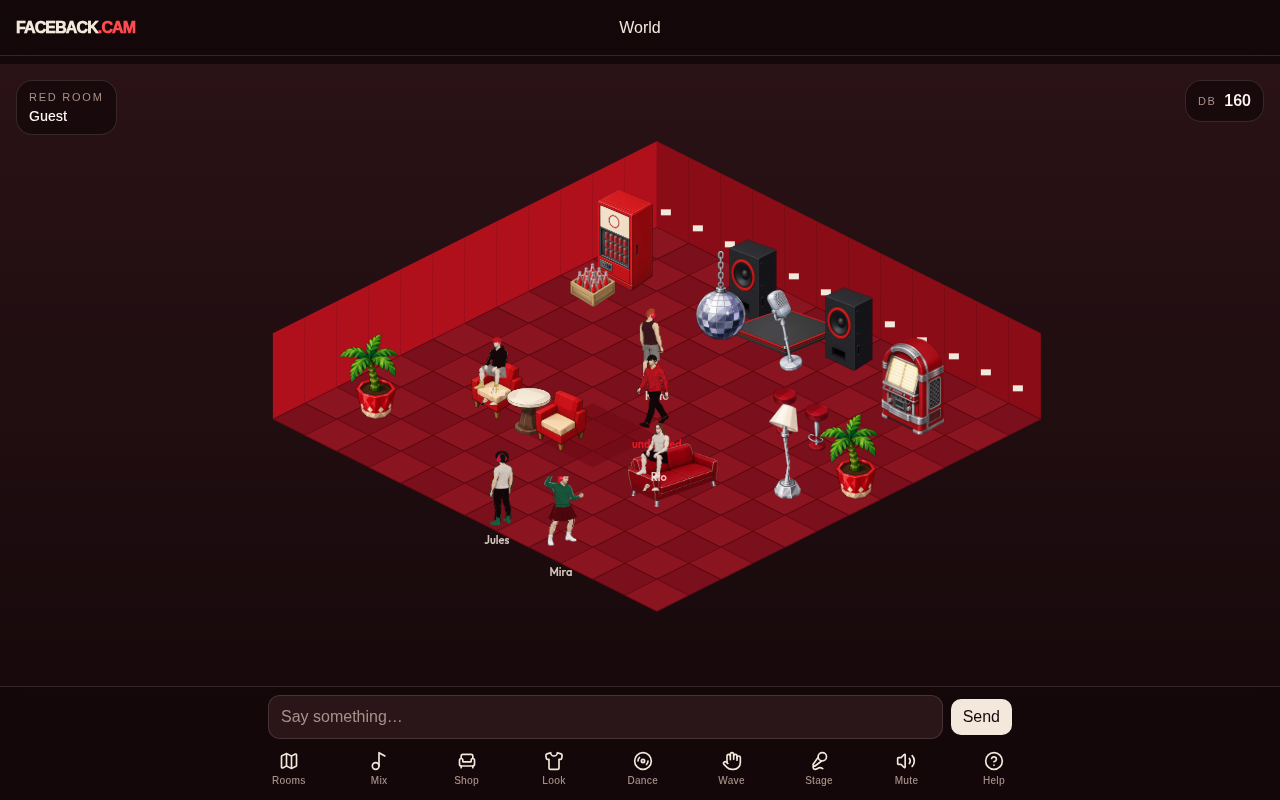
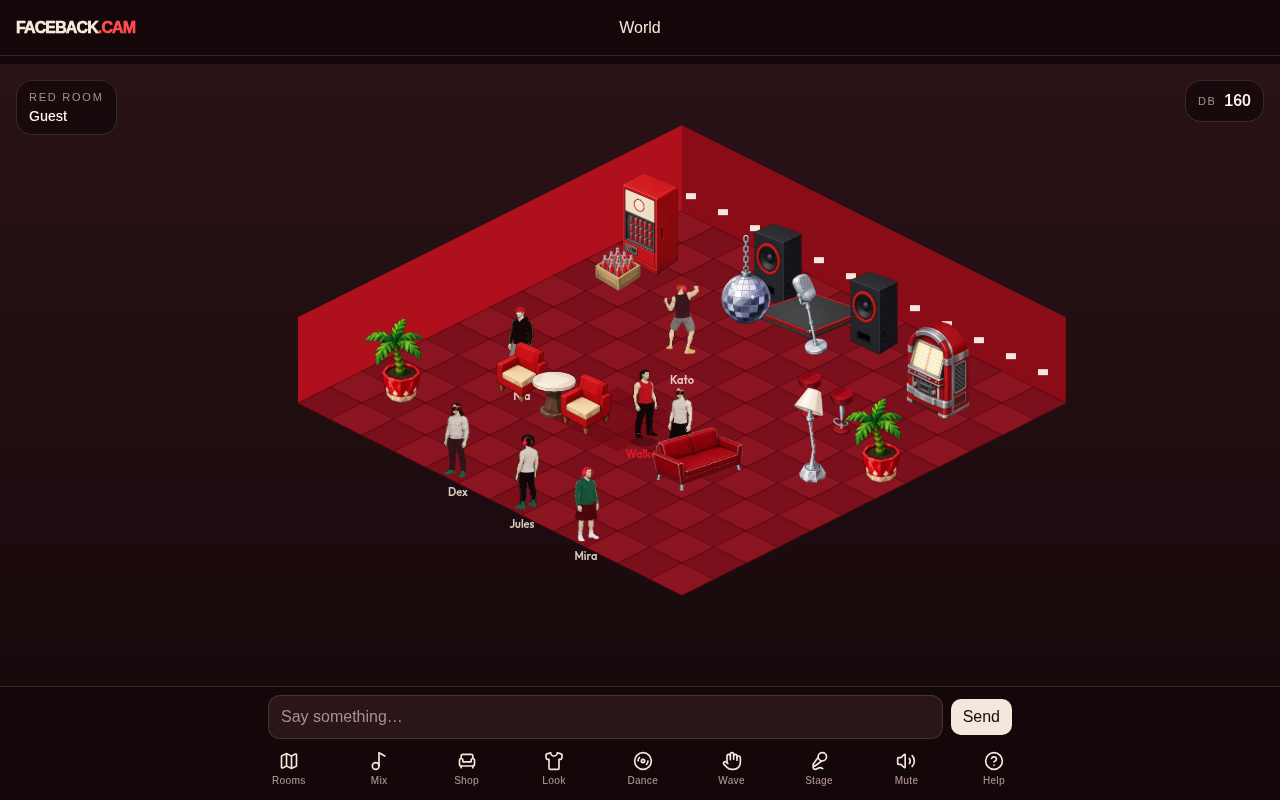
Polish walk into 4-beat plant/push/mid/recover cycle (#14)
Walk/idle sheets remain 4-dir × 1 pose (no extra frames in art).
Drive a clearer plant → push → mid → recover cycle off walkPhase,
swap idle↔walk on an asymmetric duty curve, and sell the gaps with
facing lean, bob/squash, and a soft plant contact shadow.

diff --git a/coke-music/src/lib/game/draw.ts b/coke-music/src/lib/game/draw.ts
@@ -110,10 +110,71 @@ function actionSheet(set: AvatarSheets, action: Actor["action"]) {
   return action === "sit" ? set.sit : action === "walk" ? set.walk : action === "dance" || action === "wave" ? set.dance : set.idle;
 }
 
-/** Two-pose stride without a full walk-cycle rewrite: planted idle ↔ mid-stride walk. */
+/**
+ * Walk sheets are 4-dir × 1 pose (idle = planted, walk = mid-stride). There are no
+ * extra in-between frames in the art — fake frames would lie. Instead we drive a
+ * clearer 4-beat cycle off walkPhase: plant → push → mid → recover, swapping the
+ * two sheets on an asymmetric duty curve and selling the gaps with lean/bob/squash.
+ */
+export type StrideBeat = "plant" | "push" | "mid" | "recover";
+
+/** Fold continuous walkPhase into one step cycle in [0, 1). */
+export function strideCycle(phase: number): number {
+  const u = (phase / (Math.PI * 2)) % 1;
+  return u < 0 ? u + 1 : u;
+}
+
+/** Asymmetric beats: short plant, weight push, held mid-stride, recover into plant. */
+export function strideBeat(phase: number): StrideBeat {
+  const u = strideCycle(phase);
+  if (u < 0.16) return "plant";
+  if (u < 0.34) return "push";
+  if (u < 0.68) return "mid";
+  return "recover";
+}
+
 function strideAction(action: Actor["action"], phase: number): Actor["action"] {
   if (action !== "walk") return action;
-  return Math.sin(phase) > 0.2 ? "walk" : "idle";
+  const beat = strideBeat(phase);
+  // Idle sheet = feet planted; walk sheet = legs apart. Push stays on idle so the
+  // weight-shift reads before the mid-stride flash; recover keeps the stride sheet.
+  return beat === "plant" || beat === "push" ? "idle" : "walk";
+}
+
+/** Screen-space lean toward facing (isometric +x down-right, +y down-left). */
+function facingLeanX(dir: number, beat: StrideBeat): number {
+  const amp = beat === "push" || beat === "mid" ? 2.6 : beat === "recover" ? 1.3 : 0.5;
+  const sx = dir === 0 ? 1 : dir === 2 ? -1 : dir === 1 ? -0.65 : 0.65;
+  return sx * amp;
+}
+
+function walkMotion(phase: number, dir: number) {
+  const beat = strideBeat(phase);
+  const u = strideCycle(phase);
+  // Ease inside each beat so plant doesn't pop and mid holds longer visually.
+  const bob =
+    beat === "plant"
+      ? 0.4
+      : beat === "push"
+        ? 1.2 + (u - 0.16) / 0.18 * 2.4
+        : beat === "mid"
+          ? 4.0 + Math.sin(((u - 0.34) / 0.34) * Math.PI) * 1.1
+          : 2.2 * (1 - (u - 0.68) / 0.32);
+  const sway =
+    beat === "plant"
+      ? Math.sin(phase) * 0.012
+      : beat === "push"
+        ? 0.04 + (u - 0.16) / 0.18 * 0.03
+        : beat === "mid"
+          ? Math.sin(phase) * 0.07
+          : Math.sin(phase) * 0.035;
+  const stretchX =
+    beat === "plant" ? 1.04 : beat === "push" ? 0.97 : beat === "mid" ? 1.02 : 0.99;
+  const stretchY =
+    beat === "plant" ? 0.96 : beat === "push" ? 1.05 : beat === "mid" ? 1.01 : 0.98;
+  const plantShadow =
+    beat === "plant" ? 0.32 : beat === "recover" ? 0.14 : beat === "push" ? 0.08 : 0;
+  return { beat, bob, sway, stretchX, stretchY, leanX: facingLeanX(dir, beat), plantShadow };
 }
 
 function remapCanvas(c: HTMLCanvasElement, a: Appearance): HTMLCanvasElement {
@@ -663,20 +724,36 @@ export function drawAppearance(
     const frame = composeAvatar(a, dir, action, phase);
     if (frame) {
       const walk = action === "walk";
-      const bob = action === "dance" ? Math.abs(Math.sin(t * 10)) * 3 : walk ? Math.abs(Math.sin(phase)) * 4.2 : 0;
-      const sway = walk ? Math.sin(phase) * 0.055 : action === "dance" ? Math.sin(t * 8) * 0.07 : Math.sin(t * 1.8) * 0.012;
-      const stretch = walk ? 1 + Math.sin(phase * 2) * 0.03 : 1;
+      const motion = walk ? walkMotion(phase, dir) : null;
+      const bob = action === "dance" ? Math.abs(Math.sin(t * 10)) * 3 : motion ? motion.bob : 0;
+      const sway = motion
+        ? motion.sway
+        : action === "dance"
+          ? Math.sin(t * 8) * 0.07
+          : Math.sin(t * 1.8) * 0.012;
+      const stretchX = motion ? motion.stretchX : walk ? 1 + Math.sin(phase * 2) * 0.03 : 1;
+      const stretchY = motion ? motion.stretchY : 1;
       const breathe = action === "idle" ? 1 + Math.sin(t * 2.2) * 0.012 : 1;
+      const leanX = motion ? motion.leanX : 0;
       const sitting = action === "sit";
       const h = sitting ? 62 : 78;
       const w = (frame.width / frame.height) * h;
       // Sitting: smaller foot push + clip toes so they nestle on the cushion
       // instead of peeking under the sofa lip (Habbo-like hang is OK; under-peek is not).
       const foot = sitting ? 0 : 10;
+      // Soft contact shadow sells the plant beat without inventing foot frames.
+      if (motion && motion.plantShadow > 0) {
+        ctx.save();
+        ctx.fillStyle = `rgba(20, 8, 10, ${motion.plantShadow})`;
+        ctx.beginPath();
+        ctx.ellipse(ox + leanX * 0.35, oy + foot + 3, 13, 4.5, 0, 0, Math.PI * 2);
+        ctx.fill();
+        ctx.restore();
+      }
       ctx.save();
-      ctx.translate(ox, oy + foot - sitLift - bob);
+      ctx.translate(ox + leanX, oy + foot - sitLift - bob);
       ctx.rotate(sway);
-      ctx.scale(stretch, breathe / stretch);
+      ctx.scale(stretchX, (breathe * stretchY) / stretchX);
       if (sitting) {
         const hide = Math.round(h * 0.32);
         ctx.beginPath();

diff --git a/lib/coke-game/draw.ts b/lib/coke-game/draw.ts
@@ -111,10 +111,71 @@ function actionSheet(set: AvatarSheets, action: Actor["action"]) {
   return action === "sit" ? set.sit : action === "walk" ? set.walk : action === "dance" || action === "wave" ? set.dance : set.idle;
 }
 
-/** Two-pose stride without a full walk-cycle rewrite: planted idle ↔ mid-stride walk. */
+/**
+ * Walk sheets are 4-dir × 1 pose (idle = planted, walk = mid-stride). There are no
+ * extra in-between frames in the art — fake frames would lie. Instead we drive a
+ * clearer 4-beat cycle off walkPhase: plant → push → mid → recover, swapping the
+ * two sheets on an asymmetric duty curve and selling the gaps with lean/bob/squash.
+ */
+export type StrideBeat = "plant" | "push" | "mid" | "recover";
+
+/** Fold continuous walkPhase into one step cycle in [0, 1). */
+export function strideCycle(phase: number): number {
+  const u = (phase / (Math.PI * 2)) % 1;
+  return u < 0 ? u + 1 : u;
+}
+
+/** Asymmetric beats: short plant, weight push, held mid-stride, recover into plant. */
+export function strideBeat(phase: number): StrideBeat {
+  const u = strideCycle(phase);
+  if (u < 0.16) return "plant";
+  if (u < 0.34) return "push";
+  if (u < 0.68) return "mid";
+  return "recover";
+}
+
 function strideAction(action: Actor["action"], phase: number): Actor["action"] {
   if (action !== "walk") return action;
-  return Math.sin(phase) > 0.2 ? "walk" : "idle";
+  const beat = strideBeat(phase);
+  // Idle sheet = feet planted; walk sheet = legs apart. Push stays on idle so the
+  // weight-shift reads before the mid-stride flash; recover keeps the stride sheet.
+  return beat === "plant" || beat === "push" ? "idle" : "walk";
+}
+
+/** Screen-space lean toward facing (isometric +x down-right, +y down-left). */
+function facingLeanX(dir: number, beat: StrideBeat): number {
+  const amp = beat === "push" || beat === "mid" ? 2.6 : beat === "recover" ? 1.3 : 0.5;
+  const sx = dir === 0 ? 1 : dir === 2 ? -1 : dir === 1 ? -0.65 : 0.65;
+  return sx * amp;
+}
+
+function walkMotion(phase: number, dir: number) {
+  const beat = strideBeat(phase);
+  const u = strideCycle(phase);
+  // Ease inside each beat so plant doesn't pop and mid holds longer visually.
+  const bob =
+    beat === "plant"
+      ? 0.4
+      : beat === "push"
+        ? 1.2 + (u - 0.16) / 0.18 * 2.4
+        : beat === "mid"
+          ? 4.0 + Math.sin(((u - 0.34) / 0.34) * Math.PI) * 1.1
+          : 2.2 * (1 - (u - 0.68) / 0.32);
+  const sway =
+    beat === "plant"
+      ? Math.sin(phase) * 0.012
+      : beat === "push"
+        ? 0.04 + (u - 0.16) / 0.18 * 0.03
+        : beat === "mid"
+          ? Math.sin(phase) * 0.07
+          : Math.sin(phase) * 0.035;
+  const stretchX =
+    beat === "plant" ? 1.04 : beat === "push" ? 0.97 : beat === "mid" ? 1.02 : 0.99;
+  const stretchY =
+    beat === "plant" ? 0.96 : beat === "push" ? 1.05 : beat === "mid" ? 1.01 : 0.98;
+  const plantShadow =
+    beat === "plant" ? 0.32 : beat === "recover" ? 0.14 : beat === "push" ? 0.08 : 0;
+  return { beat, bob, sway, stretchX, stretchY, leanX: facingLeanX(dir, beat), plantShadow };
 }
 
 function remapCanvas(c: HTMLCanvasElement, a: Appearance): HTMLCanvasElement {
@@ -699,20 +760,36 @@ export function drawAppearance(
     const frame = composeAvatar(a, dir, action, phase);
     if (frame) {
       const walk = action === "walk";
-      const bob = action === "dance" ? Math.abs(Math.sin(t * 10)) * 3 : walk ? Math.abs(Math.sin(phase)) * 4.2 : 0;
-      const sway = walk ? Math.sin(phase) * 0.055 : action === "dance" ? Math.sin(t * 8) * 0.07 : Math.sin(t * 1.8) * 0.012;
-      const stretch = walk ? 1 + Math.sin(phase * 2) * 0.03 : 1;
+      const motion = walk ? walkMotion(phase, dir) : null;
+      const bob = action === "dance" ? Math.abs(Math.sin(t * 10)) * 3 : motion ? motion.bob : 0;
+      const sway = motion
+        ? motion.sway
+        : action === "dance"
+          ? Math.sin(t * 8) * 0.07
+          : Math.sin(t * 1.8) * 0.012;
+      const stretchX = motion ? motion.stretchX : walk ? 1 + Math.sin(phase * 2) * 0.03 : 1;
+      const stretchY = motion ? motion.stretchY : 1;
       const breathe = action === "idle" ? 1 + Math.sin(t * 2.2) * 0.012 : 1;
+      const leanX = motion ? motion.leanX : 0;
       const sitting = action === "sit";
       const h = sitting ? 62 : 78;
       const w = (frame.width / frame.height) * h;
       // Sitting: smaller foot push + clip toes so they nestle on the cushion
       // instead of peeking under the sofa lip (Habbo-like hang is OK; under-peek is not).
       const foot = sitting ? 0 : 10;
+      // Soft contact shadow sells the plant beat without inventing foot frames.
+      if (motion && motion.plantShadow > 0) {
+        ctx.save();
+        ctx.fillStyle = `rgba(20, 8, 10, ${motion.plantShadow})`;
+        ctx.beginPath();
+        ctx.ellipse(ox + leanX * 0.35, oy + foot + 3, 13, 4.5, 0, 0, Math.PI * 2);
+        ctx.fill();
+        ctx.restore();
+      }
       ctx.save();
-      ctx.translate(ox, oy + foot - sitLift - bob);
+      ctx.translate(ox + leanX, oy + foot - sitLift - bob);
       ctx.rotate(sway);
-      ctx.scale(stretch, breathe / stretch);
+      ctx.scale(stretchX, (breathe * stretchY) / stretchX);
       if (sitting) {
         const hide = Math.round(h * 0.32);
         ctx.beginPath();

diff --git a/docs/deploy-faceback.md b/docs/deploy-faceback.md
@@ -44,7 +44,7 @@ This app is **not** a static Pages site (RSC + optional D1). Prefer Workers. Kee
 ## Hair / walk polish (2026-10-02)
 
 - Tail/Bangs overlays re-extracted from cyan master sheets (`scripts/reextract-hair-overlays.py`) with Crop scalp underlay in compose.
-- Walk uses a 2-pose stride (idle ↔ walk sheets) + stronger bob/sway — not a full multi-frame cycle.
+- Walk art is still 2 poses (idle ↔ walk sheets). A 4-beat plant/push/mid/recover cycle is sold with timing/lean/bob/plant-shadow — not new sheet frames.
 
 ## Accessory polish (2026-10-02)
 
@@ -62,3 +62,9 @@ This app is **not** a static Pages site (RSC + optional D1). Prefer Workers. Kee
 
 - Booth + bean (+ stool) sitLift/sitY retuned to match sofa/chair nestle; seat apron is per-furniture (booth burgundy, bean oval).
 - Mixer: vinyl bed under mixes (ducks with kicks), clearer clip labels, BPM chips, live meters, **Burn disc** feedback.
+
+## Walk cycle polish (2026-10-02)
+
+- Confirmed walk/idle sheets are **4 directions × 1 pose** each (1280×308). Legacy `walk.png` 1024 grid is not a usable multi-frame cycle.
+- `strideBeat(walkPhase)` → plant / push / mid / recover; sheets swap idle↔walk on that curve; facing lean + plant contact shadow fill the gaps.
+- QA: `QA_BASE=http://127.0.0.1:5173/world node scripts/qa-walk-world.mjs`

diff --git a/coke-music/HANDOFF.md b/coke-music/HANDOFF.md
@@ -265,7 +265,7 @@ Improving the mixer is still aligned with the user. Don’t strip it.
 
 These are **not** claimed done:
 
-- Walk uses a 2-pose stride (idle ↔ mid-stride walk sheets) plus bob/sway — not a full 4-frame cycle.
+- Walk art is still 2 poses (idle planted ↔ walk mid-stride; 4-dir×1 sheets). Code drives a 4-beat plant/push/mid/recover cycle via walkPhase + lean/bob/squash/plant-shadow — no invented frames.
 - Headphones/shades re-extracted from red masters (`scripts/reextract-accessory-overlays.py`) with head-band CC filters; sit cleaner than legacy `acc.png` blobs. Cap uses the same pipeline.
 - Tail/Bangs re-extracted from cyan masters with Crop scalp underlay; still short of salon-perfect strand detail.
 - Sitters are on cushions in QA shots; small `sitLift` / `sitY` tweaks may still help nest them deeper if sofa art changes.
